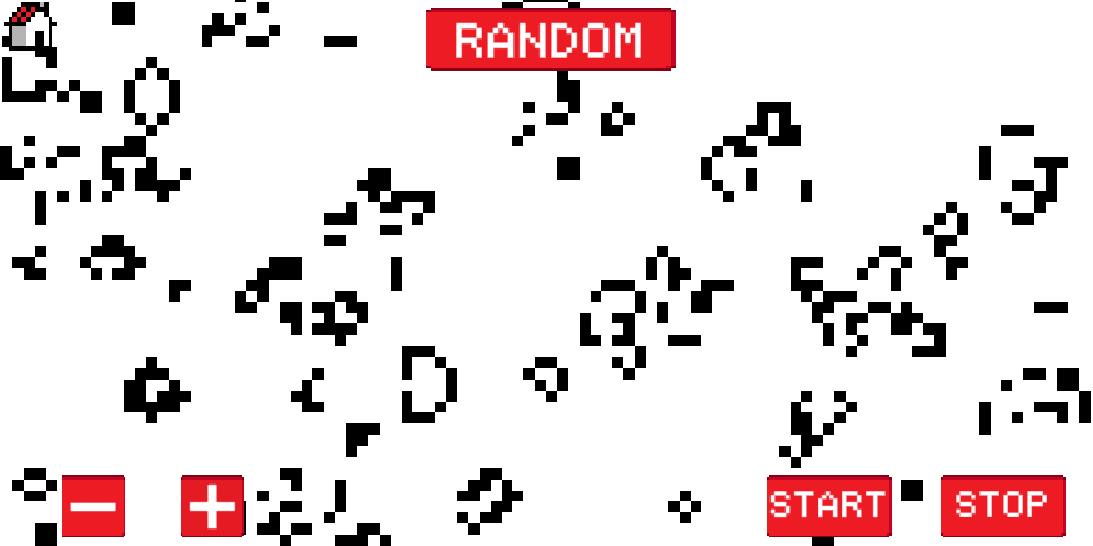
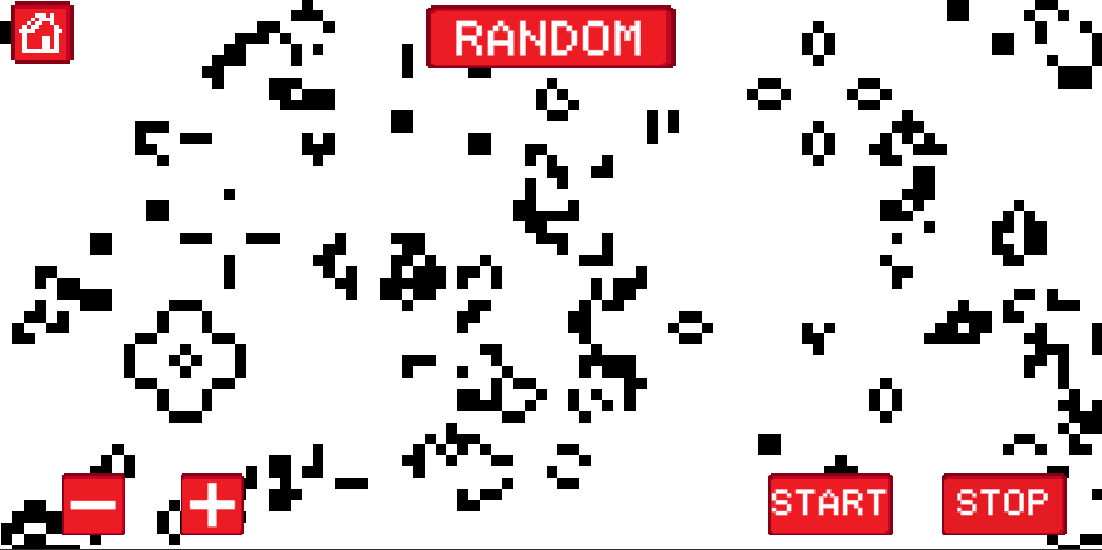
Add some errors handling

diff --git a/Assets/Scripts/LifeVisual.cs b/Assets/Scripts/LifeVisual.cs
@@ -46,7 +46,7 @@ public class LifeVisual : MonoBehaviour
 
     void Start()
     {
-        life = new Life(h + 1, w + 1, multiplayer);
+        life = new Life(h, w, multiplayer);
 
         CreateCells();
         updateSprites();
@@ -65,16 +65,16 @@ public class LifeVisual : MonoBehaviour
         GameObject sprite = Resources.Load("Cell") as GameObject;
         sprite.GetComponent<Cell>().interactive = interactive;
 
-        for (int i = -h / 2; i <= h / 2; i++)
+        for (int i = 0; i < h; i++)
         {
             all.Add(new List<GameObject>());
-            for (int j = -w / 2; j <= w / 2; j++)
+            for (int j = 0; j < w; j++)
             {
                 GameObject Sprite = Instantiate(sprite);
-                Sprite.transform.position = new Vector2(j, i);
-                Sprite.GetComponent<Cell>().i = i + h / 2;
-                Sprite.GetComponent<Cell>().j = j + w / 2;
-                all[i + h / 2].Add(Sprite);
+                Sprite.transform.position = new Vector2(j - w/2, i - h/2);
+                Sprite.GetComponent<Cell>().i = i;
+                Sprite.GetComponent<Cell>().j = j;
+                all[i].Add(Sprite);
             }
         }
     }
@@ -96,7 +96,7 @@ public class LifeVisual : MonoBehaviour
 
     public void ClearField()
     {
-        life = new Life(h + 1, w + 1, multiplayer);
+        life = new Life(h, w, multiplayer);
         updateSprites();
     }
 
@@ -220,11 +220,8 @@ public class LifeVisual : MonoBehaviour
     }
     public void CreateRandomField()
     {
-        if (!game)
-        {
-            life.setRandomField();
-            updateSprites();
-        }
+        life.setRandomField();
+        updateSprites();
     }
     public void ChangeCell(int i, int j)
     {

diff --git a/Assets/Scripts/Multiplayer.cs b/Assets/Scripts/Multiplayer.cs
@@ -46,12 +46,13 @@ public class CreateMultiplayer : MonoBehaviour
     }
     public void ApplyGameSettings()
     {
-        StepCount = int.Parse(StepCountInputField.GetComponent<TMP_InputField>().text);
-        GameSpeed = int.Parse(GameSpeedInputField.GetComponent<TMP_InputField>().text);
-
-        GameSettingsUI.SetActive(false);
-        FirstPlayerUI.SetActive(true);
-        GetComponent<LifeVisual>().enabled = true;
+        if (int.TryParse(StepCountInputField.GetComponent<TMP_InputField>().text, out StepCount) &&
+            int.TryParse(GameSpeedInputField.GetComponent<TMP_InputField>().text, out GameSpeed))
+        {
+            GameSettingsUI.SetActive(false);
+            FirstPlayerUI.SetActive(true);
+            GetComponent<LifeVisual>().enabled = true;
+        }
     }
 
     public void ApplyFirstPlayerField()
